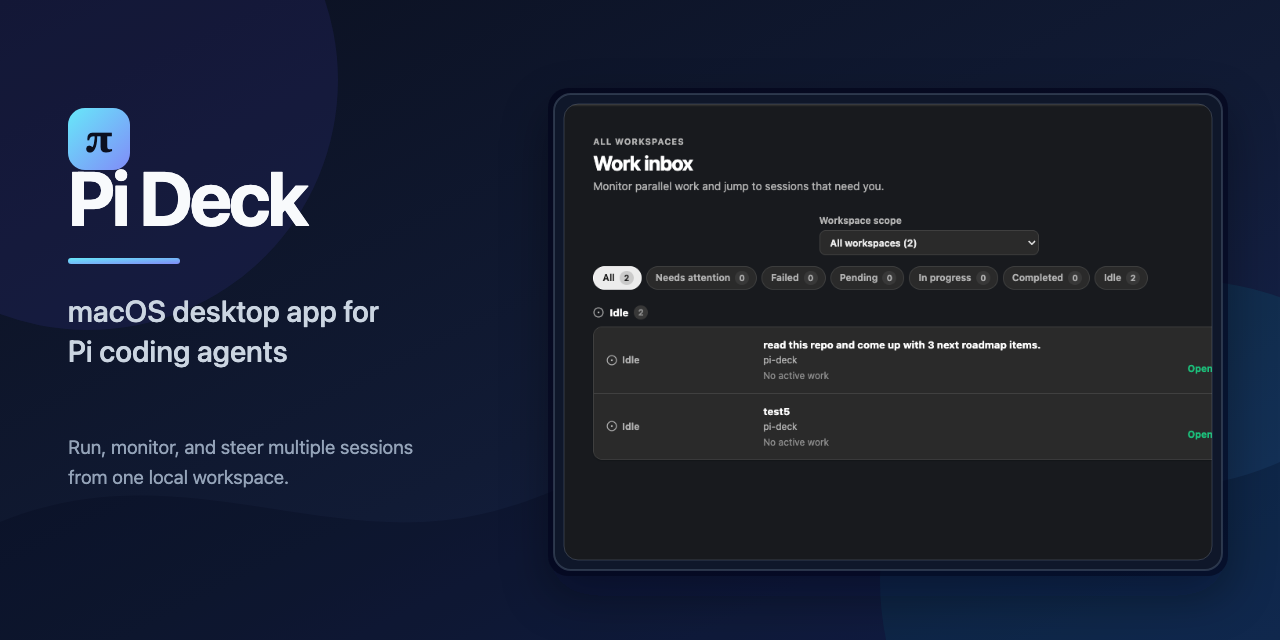
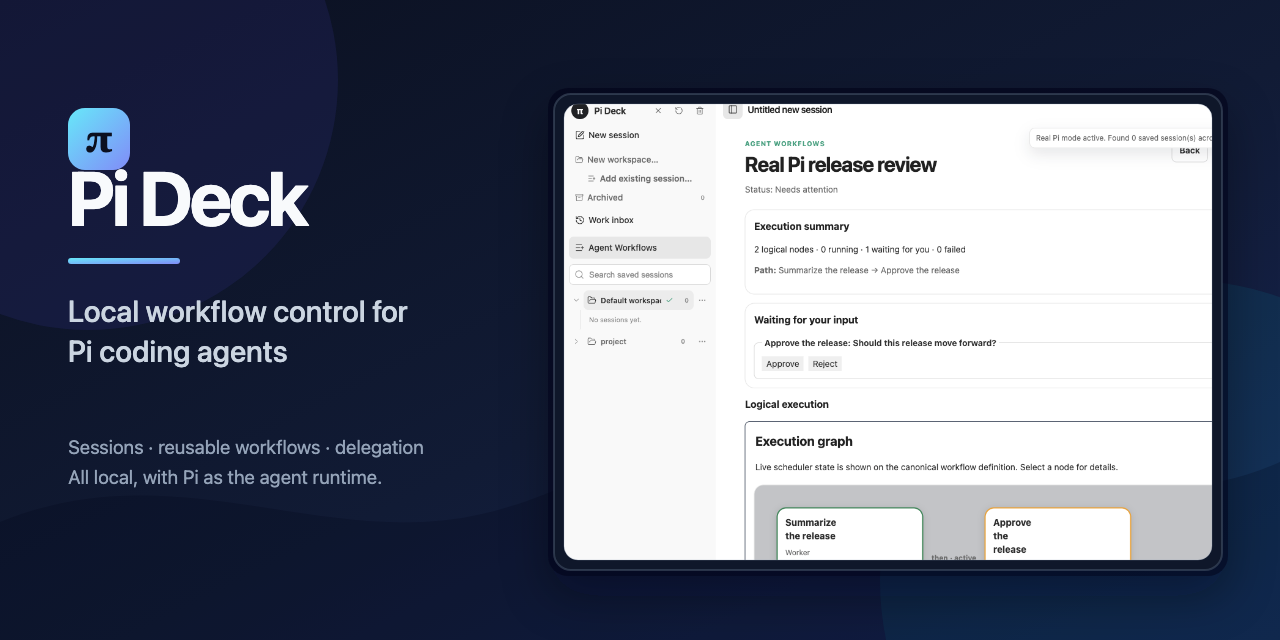
docs: balance site and README onboarding

diff --git a/site/styles.css b/site/styles.css
@@ -4,10 +4,10 @@
 .hero, .section, .proof, footer { width: min(1180px, calc(100% - 3rem)); margin-inline: auto; } .hero { min-height: 625px; display: grid; grid-template-columns: 1.05fr .95fr; align-items: center; gap: 3rem; padding: 4.5rem 0; } .eyebrow { color: var(--aqua); letter-spacing: .13em; text-transform: uppercase; font-size: .75rem; font-weight: 750; margin: 0 0 1rem; } h1, h2, h3, p { margin-top: 0; } h1, h2 { font-family: var(--serif); letter-spacing: -.045em; line-height: .99; } h1 { font-size: clamp(3rem, 6.3vw, 5.7rem); max-width: 690px; margin-bottom: 1.4rem; } h2 { font-size: clamp(2.4rem, 4.2vw, 4.1rem); max-width: 740px; margin-bottom: 1rem; } h3 { font-size: 1.08rem; line-height: 1.25; margin-bottom: .55rem; } .lede { font-size: clamp(1.05rem, 1.7vw, 1.3rem); color: var(--muted); max-width: 610px; } .actions { display: flex; flex-wrap: wrap; gap: .75rem; margin: 2rem 0 1rem; } .button { display: inline-flex; align-items: center; gap: .5rem; text-decoration: none; padding: .75rem 1rem; font-weight: 700; border: 1px solid var(--line); border-radius: .35rem; } .button-primary { background: var(--aqua); color: #071014; border-color: var(--aqua); } .button-primary:hover { background: #b0fffa; color: #071014; } .button-secondary { color: var(--ink); } .status { font-size: .85rem; color: var(--muted); } .status span { color: var(--aqua); font-size: .7rem; }
 .hero-art { min-height: 380px; position: relative; display: grid; place-items: center; overflow: hidden; background: radial-gradient(circle at 50% 50%, #25275d 0, #11142a 35%, transparent 70%); } .orbit { border: 1px solid rgba(169,145,255,.45); position: absolute; border-radius: 50%; transform: rotate(-32deg); } .orbit-one { width: 510px; height: 220px; } .orbit-two { width: 380px; height: 165px; border-color: rgba(112,230,224,.4); } .hero-window { z-index: 1; width: min(365px, 84%); background: linear-gradient(145deg, #1d2441, #0e1223); border: 1px solid #4d5482; border-radius: .75rem; box-shadow: 0 25px 70px rgba(0,0,0,.4); overflow: hidden; transform: rotate(-4deg); } .window-dots { height: 32px; padding: 11px; display: flex; gap: 6px; border-bottom: 1px solid #333b61; } .window-dots i { display: block; width: 7px; height: 7px; border-radius: 50%; background: #ff8574; } .window-dots i:nth-child(2) { background: #f2cc68; } .window-dots i:nth-child(3) { background: #70e6e0; } .window-content { padding: 2.5rem 2rem 3rem; display: grid; gap: .65rem; } .window-content span { color: var(--aqua); letter-spacing: .16em; font-size: .63rem; } .window-content strong { font-family: var(--serif); font-size: 1.85rem; } .window-content em { color: var(--muted); font-style: normal; font-size: .8rem; }
 .proof { display: grid; grid-template-columns: repeat(4, 1fr); border-top: 1px solid var(--line); border-bottom: 1px solid var(--line); } .proof div { padding: 1.6rem 1.5rem; border-right: 1px solid var(--line); } .proof div:first-child { padding-left: 0; } .proof div:last-child { border: 0; } .proof strong, .proof span { display: block; } .proof span { color: var(--muted); font-size: .88rem; margin-top: .3rem; }
-.section { padding: 7rem 0; } .section-heading > p:last-child { color: var(--muted); max-width: 610px; font-size: 1.05rem; } .screenshot-grid { display: grid; grid-template-columns: 1fr 1fr; gap: 1.5rem; margin-top: 3rem; } figure { margin: 0; border: 1px solid var(--line); background: var(--panel); } figure img { display: block; width: 100%; height: auto; } figcaption { padding: 1rem 1.15rem; color: var(--muted); font-size: .87rem; } .lightbox-trigger { display: block; position: relative; cursor: zoom-in; } .lightbox-trigger:focus-visible { outline: 2px solid var(--aqua); outline-offset: -3px; } .lightbox-hint { display: block; color: var(--aqua); font-size: .78rem; margin-top: .4rem; } .image-lightbox { width: min(94vw, 1440px); max-width: none; max-height: 94vh; margin: auto; padding: 3.5rem 1rem 1rem; border: 1px solid var(--line); border-radius: .55rem; background: var(--panel); color: var(--ink); } .image-lightbox::backdrop { background: rgb(2 4 12 / 82%); backdrop-filter: blur(5px); } .image-lightbox img { display: block; max-width: calc(94vw - 2rem); max-height: calc(94vh - 5rem); width: auto; height: auto; margin: auto; object-fit: contain; } .image-lightbox-close { position: absolute; top: .75rem; right: .75rem; padding: .4rem .65rem; border: 1px solid var(--line); border-radius: .3rem; background: transparent; color: var(--ink); font: inherit; cursor: pointer; } .image-lightbox-close:hover, .image-lightbox-close:focus-visible { border-color: var(--aqua); color: var(--aqua); } .feature-section { border-top: 1px solid var(--line); } .feature-grid { display: grid; grid-template-columns: repeat(2, 1fr); gap: 0; margin-top: 3rem; border-top: 1px solid var(--line); border-left: 1px solid var(--line); } .feature-grid article { padding: 2.1rem; border-right: 1px solid var(--line); border-bottom: 1px solid var(--line); } .feature-grid p { color: var(--muted); margin-bottom: 0; } .feature-number { font-family: var(--serif); color: var(--violet); font-size: 1.5rem; display: block; margin-bottom: 2.8rem; }
+.section { padding: 7rem 0; } .section-heading > p:last-child { color: var(--muted); max-width: 610px; font-size: 1.05rem; } .pi-and-deck { border-top: 1px solid var(--line); } .pi-and-deck-grid { display: grid; grid-template-columns: 1fr 1fr; margin-top: 3rem; border: 1px solid var(--line); } .pi-and-deck-grid article { padding: 2rem; } .pi-and-deck-grid article + article { border-left: 1px solid var(--line); background: linear-gradient(145deg, var(--panel), #191a3d); } .pi-and-deck-grid p { color: var(--muted); margin-bottom: 0; } .screenshot-grid { display: grid; grid-template-columns: 1fr 1fr; gap: 1.5rem; margin-top: 3rem; } figure { margin: 0; border: 1px solid var(--line); background: var(--panel); } figure img { display: block; width: 100%; height: auto; } figcaption { padding: 1rem 1.15rem; color: var(--muted); font-size: .87rem; } .lightbox-trigger { display: block; position: relative; cursor: zoom-in; } .lightbox-trigger:focus-visible { outline: 2px solid var(--aqua); outline-offset: -3px; } .lightbox-hint { display: block; color: var(--aqua); font-size: .78rem; margin-top: .4rem; } .image-lightbox { width: min(94vw, 1440px); max-width: none; max-height: 94vh; margin: auto; padding: 3.5rem 1rem 1rem; border: 1px solid var(--line); border-radius: .55rem; background: var(--panel); color: var(--ink); } .image-lightbox::backdrop { background: rgb(2 4 12 / 82%); backdrop-filter: blur(5px); } .image-lightbox img { display: block; max-width: calc(94vw - 2rem); max-height: calc(94vh - 5rem); width: auto; height: auto; margin: auto; object-fit: contain; } .image-lightbox-close { position: absolute; top: .75rem; right: .75rem; padding: .4rem .65rem; border: 1px solid var(--line); border-radius: .3rem; background: transparent; color: var(--ink); font: inherit; cursor: pointer; } .image-lightbox-close:hover, .image-lightbox-close:focus-visible { border-color: var(--aqua); color: var(--aqua); } .feature-section { border-top: 1px solid var(--line); } .feature-grid { display: grid; grid-template-columns: repeat(2, 1fr); gap: 0; margin-top: 3rem; border-top: 1px solid var(--line); border-left: 1px solid var(--line); } .feature-grid article { padding: 2.1rem; border-right: 1px solid var(--line); border-bottom: 1px solid var(--line); } .feature-grid p { color: var(--muted); margin-bottom: 0; } .feature-number { font-family: var(--serif); color: var(--violet); font-size: 1.5rem; display: block; margin-bottom: 2.8rem; }
 .workflow { display: grid; grid-template-columns: .95fr 1.05fr; gap: 4rem; align-items: start; background: linear-gradient(120deg, transparent, rgba(169,145,255,.08)); } .workflow ol { list-style: none; margin: .4rem 0 0; padding: 0; } .workflow li { display: grid; grid-template-columns: 50px 1fr; gap: 1rem; padding: 1.25rem 0; border-top: 1px solid var(--line); } .workflow li:last-child { border-bottom: 1px solid var(--line); } .workflow li > span { color: var(--aqua); font-family: var(--serif); font-size: 1.55rem; } .workflow p { margin: 0; color: var(--muted); } code { font-family: ui-monospace, SFMono-Regular, Menlo, monospace; font-size: .9em; }
-.install { display: grid; grid-template-columns: 1fr 1fr; gap: 3rem; background: #191a3d; padding: 4.5rem; } .install h2 { font-size: clamp(2.3rem, 3.7vw, 3.6rem); } .install-copy p:not(.eyebrow) { color: #c6c9e2; } pre { align-self: center; overflow: auto; margin: 0; padding: 1.6rem; background: #0d0e20; border: 1px solid #3b3d70; color: #d7fdf9; line-height: 1.7; font-size: .84rem; } .privacy { display: grid; grid-template-columns: .9fr 1.1fr; gap: 4rem; } .privacy p { color: var(--muted); } .privacy a { color: var(--aqua); }.faq { border-top: 1px solid var(--line); }.faq-grid { display: grid; grid-template-columns: 1fr 1fr; gap: .9rem; margin-top: 2.8rem; } details { border: 1px solid var(--line); padding: 1.2rem; } summary { cursor: pointer; font-weight: 700; padding-right: 1rem; } details p { color: var(--muted); margin: 1rem 0 0; font-size: .94rem; } footer { border-top: 1px solid var(--line); padding: 2rem 0 3rem; display: flex; color: var(--muted); justify-content: space-between; gap: 1rem; font-size: .82rem; } footer span:last-child { display: flex; gap: 1rem; }
-@media (max-width: 760px) { .site-header { width: min(100% - 2rem, 1180px); min-height: 68px; } nav a:not(.nav-github) { display: none; } .hero, .section, .proof, footer { width: min(100% - 2rem, 1180px); } .hero { grid-template-columns: 1fr; min-height: auto; padding: 4rem 0 2.5rem; gap: 1rem; } .hero-art { min-height: 290px; }.proof { grid-template-columns: 1fr; }.proof div, .proof div:first-child { padding: 1rem 0; border-right: 0; border-bottom: 1px solid var(--line); }.proof div:last-child { border-bottom: 0; }.section { padding: 4.5rem 0; }.screenshot-grid, .feature-grid, .feature-snapshot-grid, .workflow, .install, .privacy, .faq-grid { grid-template-columns: 1fr; }.feature-grid article { padding: 1.5rem; }.workflow, .privacy { gap: 2rem; }.install { width: 100%; padding: 3rem 1rem; gap: 2rem; }.install h2 { font-size: 2.6rem; } footer { flex-direction: column; } }
+.install { display: grid; grid-template-columns: 1fr 1fr; gap: 3rem; background: #191a3d; padding: 4.5rem; } .install h2 { font-size: clamp(2.3rem, 3.7vw, 3.6rem); } .install-copy p:not(.eyebrow) { color: #c6c9e2; } .quickstart-list { display: grid; gap: .75rem; padding: 0; margin: 1.5rem 0 2rem; list-style: none; counter-reset: quickstart; color: #c6c9e2; } .quickstart-list li { counter-increment: quickstart; padding-left: 2rem; position: relative; } .quickstart-list li::before { content: counter(quickstart); position: absolute; left: 0; color: var(--aqua); font-family: var(--serif); font-size: 1.2rem; } .quickstart-list strong { color: var(--ink); } pre { align-self: center; overflow: auto; margin: 0; padding: 1.6rem; background: #0d0e20; border: 1px solid #3b3d70; color: #d7fdf9; line-height: 1.7; font-size: .84rem; } .privacy { display: grid; grid-template-columns: .9fr 1.1fr; gap: 4rem; } .privacy p { color: var(--muted); } .privacy a { color: var(--aqua); }.faq { border-top: 1px solid var(--line); }.faq-grid { display: grid; grid-template-columns: 1fr 1fr; gap: .9rem; margin-top: 2.8rem; } details { border: 1px solid var(--line); padding: 1.2rem; } summary { cursor: pointer; font-weight: 700; padding-right: 1rem; } details p { color: var(--muted); margin: 1rem 0 0; font-size: .94rem; } footer { border-top: 1px solid var(--line); padding: 2rem 0 3rem; display: flex; color: var(--muted); justify-content: space-between; gap: 1rem; font-size: .82rem; } footer span:last-child { display: flex; gap: 1rem; }
+@media (max-width: 760px) { .site-header { width: min(100% - 2rem, 1180px); min-height: 68px; } nav a:not(.nav-github) { display: none; } .hero, .section, .proof, footer { width: min(100% - 2rem, 1180px); } .hero { grid-template-columns: 1fr; min-height: auto; padding: 4rem 0 2.5rem; gap: 1rem; } .hero-art { min-height: 290px; }.proof { grid-template-columns: 1fr; }.proof div, .proof div:first-child { padding: 1rem 0; border-right: 0; border-bottom: 1px solid var(--line); }.proof div:last-child { border-bottom: 0; }.section { padding: 4.5rem 0; }.screenshot-grid, .feature-grid, .feature-snapshot-grid, .workflow, .install, .privacy, .pi-and-deck-grid, .release-confidence, .faq-grid { grid-template-columns: 1fr; } .pi-and-deck-grid article + article { border-top: 1px solid var(--line); border-left: 0; }.feature-grid article { padding: 1.5rem; }.workflow, .privacy { gap: 2rem; }.install { width: 100%; padding: 3rem 1rem; gap: 2rem; }.install h2 { font-size: 2.6rem; } footer { flex-direction: column; } }
 @media (prefers-reduced-motion: reduce) { html { scroll-behavior: auto; } }
 .screenshot-demo { margin-top: 1.5rem; } .feature-snapshot-grid { display: grid; grid-template-columns: repeat(3, 1fr); gap: 1.5rem; margin-top: 3rem; } .feature-snapshot-grid figure img { aspect-ratio: 1193 / 776; object-fit: cover; }
 .feature-evidence { border-top: 1px solid var(--line); }
@@ -33,6 +33,10 @@
 .boundaries ul { display: grid; gap: .9rem; padding: 0; margin: 0; list-style: none; }
 .boundaries li { padding: 1rem 1.15rem; border-left: 2px solid var(--violet); background: var(--panel); color: var(--muted); }
 .boundaries strong { color: var(--ink); }
+.release-confidence { display: grid; grid-template-columns: .9fr 1.1fr; gap: 4rem; border-top: 1px solid var(--line); }
+.release-confidence p { color: var(--muted); }
+.release-confidence strong, .release-links a { color: var(--aqua); }
+.release-links { display: flex; flex-wrap: wrap; gap: 1rem; }
 .secondary-controls { border-top: 1px solid var(--line); }
 .secondary-controls .feature-snapshot-grid { grid-template-columns: repeat(2, minmax(0, 1fr)); max-width: 820px; }
-@media (max-width: 760px) { .evidence-grid, .evidence-media-pair, .use-case-grid, .secondary-controls .feature-snapshot-grid { grid-template-columns: 1fr; } .use-case-grid article, .use-case-grid article:last-child { border-right: 0; border-bottom: 1px solid var(--line); } .use-case-grid article:last-child { border-bottom: 0; } .boundaries { grid-template-columns: 1fr; gap: 2rem; } .evidence-copy { padding: 1.5rem; } .evidence-media-pair { padding: .75rem; } }
+@media (max-width: 760px) { .evidence-grid, .evidence-media-pair, .use-case-grid, .secondary-controls .feature-snapshot-grid { grid-template-columns: 1fr; } .use-case-grid article, .use-case-grid article:last-child { border-right: 0; border-bottom: 1px solid var(--line); } .use-case-grid article:last-child { border-bottom: 0; } .boundaries, .release-confidence { grid-template-columns: 1fr; gap: 2rem; } .pi-and-deck-grid article + article { border-top: 1px solid var(--line); border-left: 0; } .evidence-copy { padding: 1.5rem; } .evidence-media-pair { padding: .75rem; } }

diff --git a/site/index.html b/site/index.html
@@ -16,12 +16,12 @@
     <meta property="og:image" content="https://liusuzeng.github.io/pi-deck/assets/social-preview.png" />
     <meta property="og:image:width" content="1280" />
     <meta property="og:image:height" content="640" />
-    <meta property="og:image:alt" content="Pi Deck desktop interface for monitoring Pi coding-agent sessions" />
+    <meta property="og:image:alt" content="Pi Deck showing a local Pi workflow with a completed worker and Human checkpoint" />
     <meta name="twitter:card" content="summary_large_image" />
     <meta name="twitter:title" content="Pi Deck — Local workflows for Pi coding agents" />
     <meta name="twitter:description" content="Organize local Pi sessions, run reusable Agent Workflows, and delegate parallel work from one macOS desktop app." />
     <meta name="twitter:image" content="https://liusuzeng.github.io/pi-deck/assets/social-preview.png" />
-    <meta name="twitter:image:alt" content="Pi Deck desktop interface for monitoring Pi coding-agent sessions" />
+    <meta name="twitter:image:alt" content="Pi Deck showing a local Pi workflow with a completed worker and Human checkpoint" />
     <link rel="stylesheet" href="styles.css" />
     <script type="application/ld+json">
       {
@@ -43,6 +43,7 @@
       <nav aria-label="Primary navigation">
         <a href="#features">Features</a>
         <a href="#workflows">Workflows</a>
+        <a href="#use-cases">Use cases</a>
         <a href="#how-it-works">How it works</a>
         <a href="#faq">FAQ</a>
         <a class="nav-github" href="https://github.com/LiusuZeng/pi-deck">GitHub <span aria-hidden="true">↗</span></a>
@@ -72,6 +73,14 @@
         <div><strong>Agent Workflows</strong><span>Build reusable multi-agent execution graphs.</span></div>
         <div><strong>Work inbox</strong><span>See all work—or narrow it by workspace and status.</span></div>
         <div><strong>Pi-native by design</strong><span>Uses Pi’s models, settings, tools, and session files.</span></div>
+      </section>
+
+      <section class="section pi-and-deck" aria-labelledby="pi-and-deck-heading">
+        <div class="section-heading"><p class="eyebrow">Pi stays in charge</p><h2 id="pi-and-deck-heading">Pi runs the agent. Pi Deck runs the desk.</h2><p>Pi Deck adds a local desktop control plane without replacing the Pi CLI, its providers, tools, settings, resources, or session files.</p></div>
+        <div class="pi-and-deck-grid">
+          <article><h3>Pi</h3><p>Owns model access, provider authentication, tools, resources, settings, and JSONL conversation history.</p></article>
+          <article><h3>Pi Deck</h3><p>Organizes sessions, keeps active work visible, runs explicit workflows, and gives you local controls for intervention and delegation.</p></article>
+        </div>
       </section>
 
       <section id="features" class="section feature-evidence" aria-labelledby="features-heading">
@@ -170,7 +179,7 @@
         </ul>
       </section>
 
-      <section class="section secondary-controls"
+      <section class="section secondary-controls">
         <div class="section-heading"><p class="eyebrow">Secondary controls</p><h2 id="secondary-controls-heading">Tune the session to your style.</h2><p>These supporting preferences sit outside the core workflow: choose Pi’s thinking level or model, and set the interface appearance.</p></div>
         <div class="feature-snapshot-grid">
           <figure>
@@ -199,7 +208,7 @@
       </section>
 
       <section id="run-from-source" class="section install" aria-labelledby="install-heading">
-        <div class="install-copy"><p class="eyebrow">Get started</p><h2 id="install-heading">Run Pi Deck from source.</h2><p>Pi Deck is currently a macOS Electron pre-release. You will need Node.js 22.12+, npm, and a working Pi executable with its normal provider authentication configured.</p><a class="button button-primary" href="https://github.com/LiusuZeng/pi-deck#quick-start">Read the setup guide <span aria-hidden="true">↗</span></a></div>
+        <div class="install-copy"><p class="eyebrow">Get started</p><h2 id="install-heading">Run Pi Deck from source.</h2><p>Pi Deck is currently a macOS Electron pre-release. You will need Node.js 22.12+, npm, and a working Pi executable with its normal provider authentication configured.</p><ol class="quickstart-list"><li><strong>Check Pi.</strong> Run <code>pi --version</code> in your terminal.</li><li><strong>Launch a project.</strong> Use the command beside this list with an absolute project path.</li><li><strong>Choose the work mode.</strong> Start a session, create a workflow, or enable delegation on a parent conversation.</li></ol><a class="button button-primary" href="https://github.com/LiusuZeng/pi-deck#quick-start">Read the setup guide <span aria-hidden="true">↗</span></a></div>
         <pre aria-label="Installation commands"><code>git clone https://github.com/LiusuZeng/pi-deck.git
 cd pi-deck
 npm ci
@@ -214,6 +223,11 @@ npm run deck:real -- /absolute/path/to/your/project</code></pre>
           <li><strong>Local and source-first.</strong> This macOS pre-release runs from source; there is not yet a signed or notarized installer.</li>
           <li><strong>Delegation is deliberate.</strong> Parallel multitasking is opt-in per parent conversation. Child tasks expose parent-facing status and handoff, not separate child-session controls.</li>
         </ul>
+      </section>
+
+      <section class="section release-confidence" aria-labelledby="release-confidence-heading">
+        <div><p class="eyebrow">Release confidence</p><h2 id="release-confidence-heading">See the current state before you commit.</h2></div>
+        <div><p><strong>v0.5.1</strong> is the current pre-release source version, with Agent Workflows and interactive multitasking introduced in v0.5.0.</p><p>Read the release notes, review the documented validation paths, or inspect the source before trying it with your own Pi setup.</p><p class="release-links"><a href="https://github.com/LiusuZeng/pi-deck/blob/main/CHANGELOG.md">Changelog <span aria-hidden="true">↗</span></a><a href="https://github.com/LiusuZeng/pi-deck/blob/main/docs/real-pi-gui-chat-validation.md">Validation record <span aria-hidden="true">↗</span></a><a href="https://github.com/LiusuZeng/pi-deck/releases">Releases <span aria-hidden="true">↗</span></a></p></div>
       </section>
 
       <section class="section privacy" aria-labelledby="privacy-heading">

diff --git a/README.md b/README.md
@@ -29,6 +29,16 @@ Pi Deck is a **local agent harness** for developers who already use Pi and want 
 
 Pi Deck is **not** an IDE, source editor, terminal wrapper, or hosted agent service. Keep using your preferred editor for code navigation and editing; Pi Deck coordinates the agents working alongside it.
 
+## Choose the right mode
+
+Pi remains the agent runtime: it owns models, provider authentication, tools, resources, settings, and JSONL conversation history. Pi Deck is the local desktop layer that organizes and directs that work.
+
+| If you need to… | Start with | Why |
+| --- | --- | --- |
+| Explore, implement, or steer one task directly | A **Pi session** | Work in a normal conversation with the composer, timeline, and intervention controls. |
+| Repeat a multi-step process | An **Agent Workflow** | Save explicit roles, routes, bounded loops or fan-out, and Human checkpoints; then monitor each run in a graph. |
+| Split independent work from one active conversation | **Parallel multitasking** | Opt in on the parent session and let Pi delegate isolated local child tasks whose status and handoff remain parent-facing. |
+
 ## Features
 
 ### Workspaces, projects, and Pi-native sessions
@@ -82,6 +92,10 @@ Create persistent global or workspace-scoped workflows for repeatable multi-agen
 - Monitor queued, running, waiting, completed, failed, and skipped occurrences; inspect outputs and open the associated Pi session when one exists.
 - Answer Human input, approval, or choice checkpoints without creating a model-backed Pi session.
 - Retry failed or cancelled occurrences, stop a run, and recover persisted definitions and runs after restart.
+
+#### Start from a feature-delivery template
+
+Use [`docs/examples/feature-delivery-workflow.json`](docs/examples/feature-delivery-workflow.json) as a small canonical starting point: a Pi worker plans the change, a Human approves it, then a second Pi worker implements it. Open **Agent Workflows**, create a workflow, and use the **JSON** view to adapt the template to your project.
 
 <p align="center">
   <a href="docs/assets/pi-deck-workflow-run.png" title="Open the live workflow screenshot full size">
@@ -259,6 +273,13 @@ npm run build
 npm run deck:real -- /absolute/path/to/your/project
 ```
 
+### First run
+
+1. Confirm `pi --version` succeeds and its provider authentication is configured.
+2. Launch Pi Deck with your project path, then choose or create a workspace.
+3. Start a **New session** for ad-hoc work, or open **Agent Workflows** and create a workflow from the visual builder or JSON template.
+4. Start the session or workflow run, then use the timeline, Work inbox, or live graph to follow and direct the work.
+
 The production-style launcher uses the existing `dist` output and deliberately does **not** rebuild it. Rebuild after pulling or changing source:
 
 ```bash
@@ -310,6 +331,14 @@ keeps the temporary project, sessions, and Pi Deck metadata isolated:
 ```bash
 PI_DECK_CAPTURE_REAL_PI=1 npm run docs:capture:real-workflows
 ```
+
+Refresh the GitHub Pages social-preview PNG after changing its SVG source:
+
+```bash
+npm run docs:render-social-preview
+```
+
+Set `CHROME_PATH` when Google Chrome is installed somewhere other than the script's default macOS location.
 
 ## Typical workflow
 
